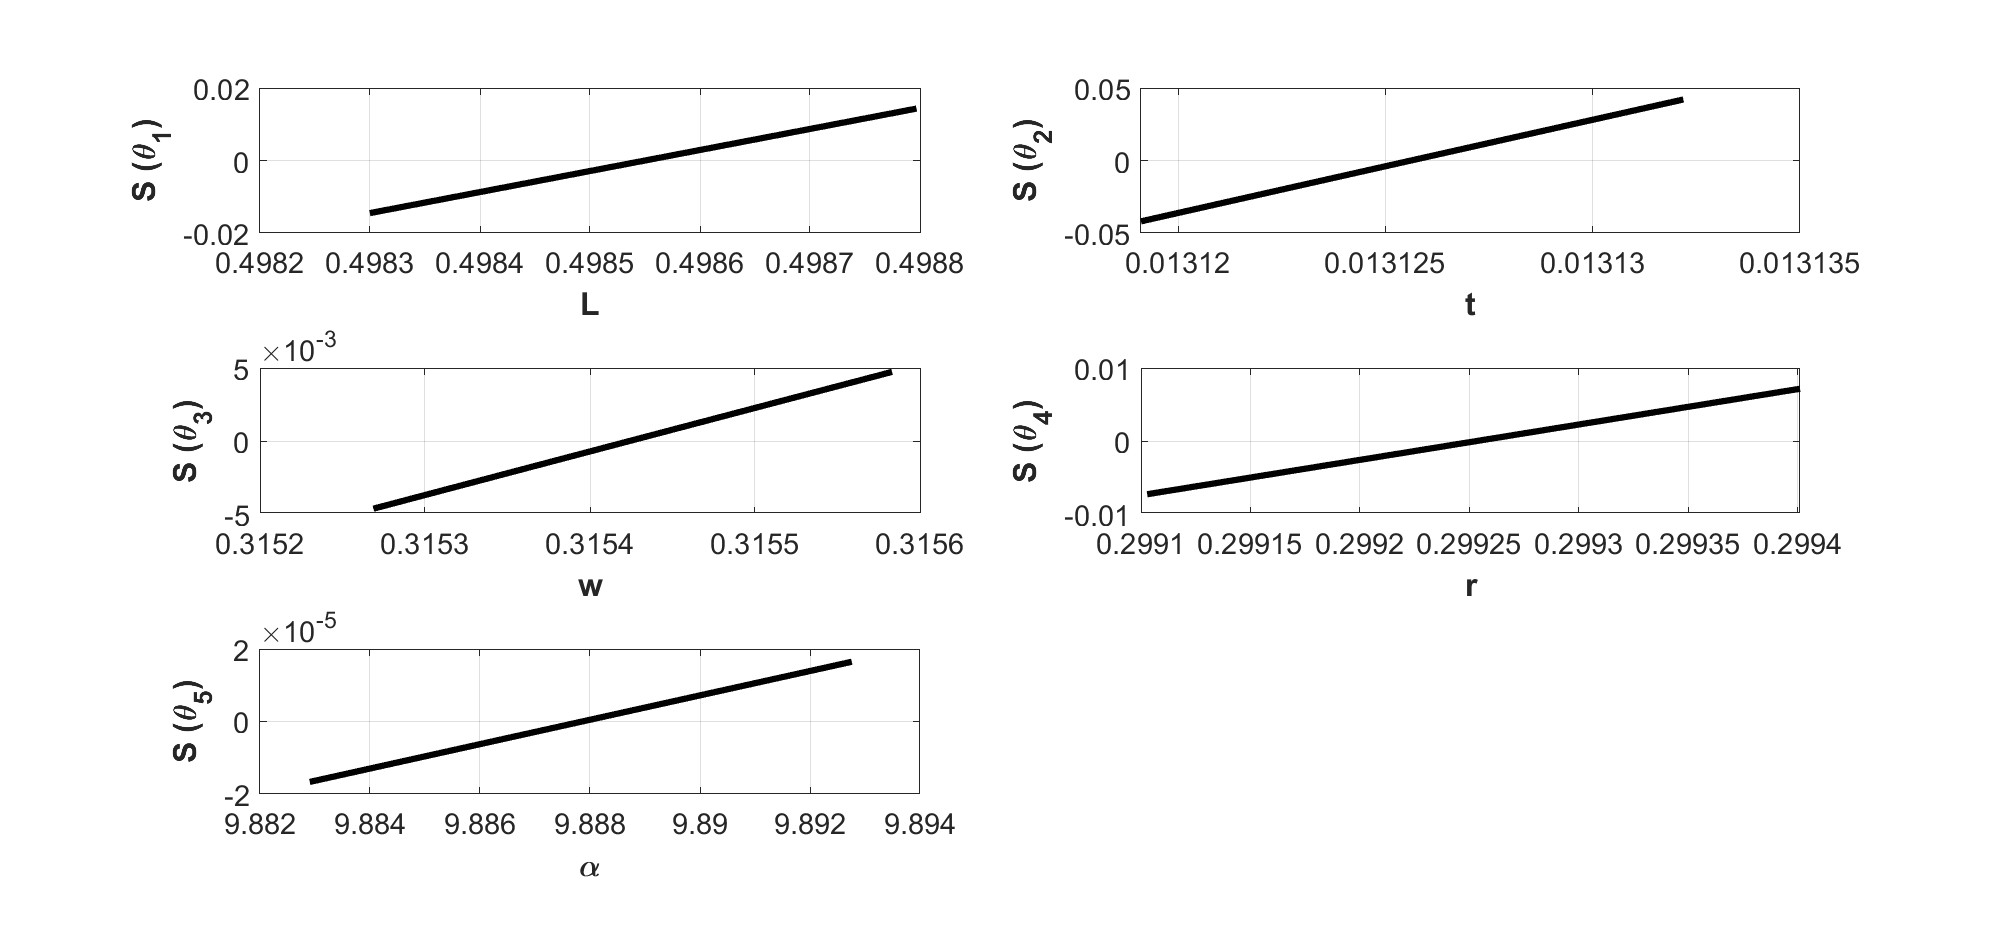
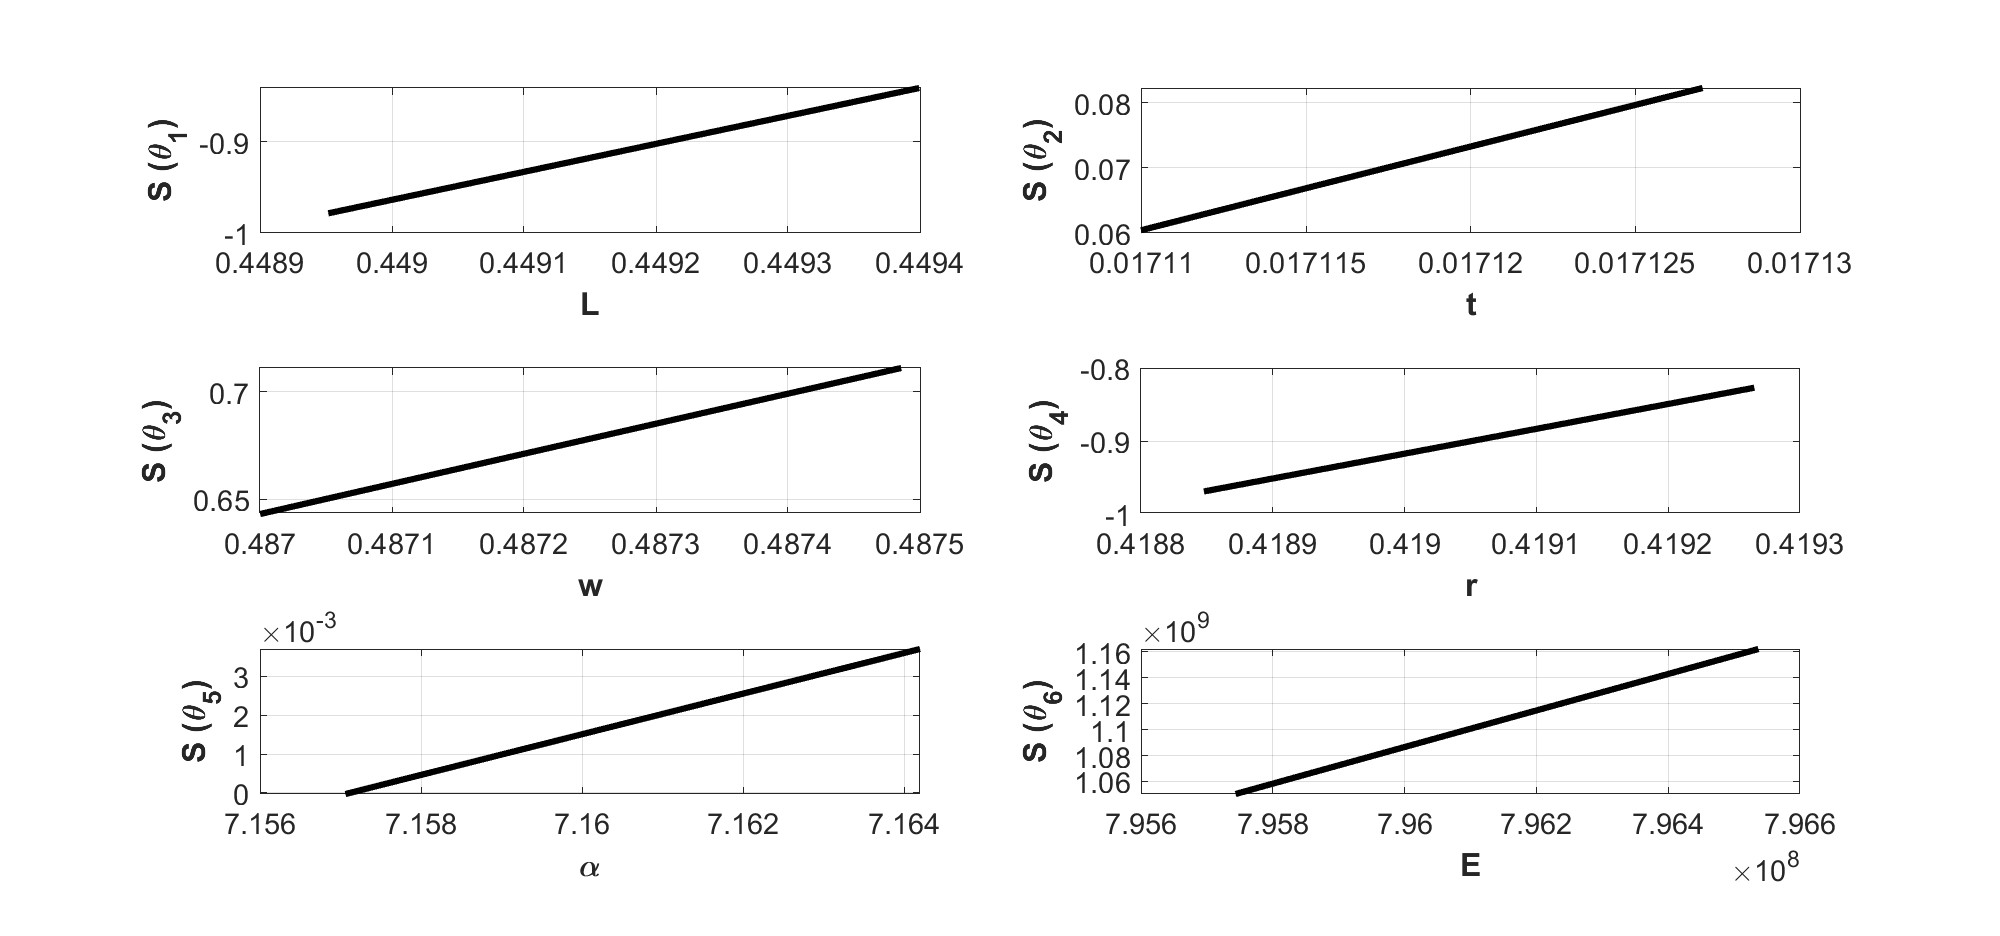
Sensitivity analysis fixed with some scaling; unsure if correct

diff --git a/Project/src/runSensitivity.m b/Project/src/runSensitivity.m
@@ -1,12 +1,11 @@
 function runSensitivity(mass, yIdeal, tIdeal, simTime, fixedPoint)
 
-    %% Begin Finite Diff
+    %** Begin Finite Diff
 
-    delta = .0005;
+    delta = .00005;
     numTestPoints = 300; % MUST BE EVEN
 
     % Each row is a param, each column is a test point
-    % ! Shoudl really be numTP - 1 b/c th_i duplicated
     Costs = zeros(numel(fixedPoint), numTestPoints -1);
     testPointMatrix = [];
 
@@ -17,8 +16,11 @@ function runSensitivity(mass, yIdeal, tIdeal, simTime, fixedPoint)
         min = th_i - delta*th_i;
         max = th_i + delta*th_i;
 
-        th_i_plus = linspace(th_i, max, numTestPoints/2);
-        th_i_minus = linspace(min, th_i, numTestPoints/2);
+        th_i_minus = linspace(min, th_i, numTestPoints/2 + 1);
+        tmp = th_i_minus(2) - th_i_minus(1);
+
+        th_i_plus = linspace(th_i, max, numTestPoints/2 +1);
+        
 
         testPoints = [th_i_minus, th_i_plus(2:end)];
         testPoints(testPoints <=0) = 1e-12;
@@ -34,18 +36,34 @@ function runSensitivity(mass, yIdeal, tIdeal, simTime, fixedPoint)
 
     end
 
-    S = zeros(numel(fixedPoint), numTestPoints -2);
-    for k = 1:(numTestPoints -2)
-        S(:, k) = (Costs(:, k+1) - Costs(:, k)) / delta;
-    end
+    %** Find sensitivities using the finit diff matrix
+    % Find scaling factor
+    y0 = ModelSimulationCost(fixedPoint, yIdeal);
+    scaler = fixedPoint/y0;
 
-    paramNames = {'L', 't', 'w', 'r', "\alpha"};
+    S = zeros(numel(fixedPoint), numTestPoints + 1);
+
+    for k = 1:numel(fixedPoint)
+        rMSE = (Costs(k,:) - y0) / y0;
+        S(k, :) = rMSE / delta;
+    end
+    % for k = 1:(numTestPoints)
+    %     S(:, k) = (Costs(:, k+1) - Costs(:, k)) / delta;
+    % end
+    % 
+    % for j = 1:numel(fixedPoint)
+    %     S(j, :) = S(j, :) * scaler(j);
+    % end
+
+
+    %** Plot sensitivities
+    paramNames = ['L', 't', 'w', 'r', "\alpha", 'E'];
     figure('WindowState','maximized')
     for a = 1:numel(fixedPoint)
         subplot(3, 2, a);
-        plot(testPointMatrix(a, 2:end), S(a, :), 'k', "LineWidth", 3)
+        plot((testPointMatrix(a, :) - fixedPoint(a))/fixedPoint(a), S(a, :), 'k', "LineWidth", 3)
         ylabel("S (\theta_" + string(a) + ")", 'fontweight', 'bold');
-        xlabel(paramNames(a), 'fontweight', 'bold');
+        xlabel('%\Delta' + paramNames(a), 'fontweight', 'bold');
         grid on
         ax = gca; % Get the current axes object
         ax.FontSize = 14;
@@ -56,7 +74,7 @@ function runSensitivity(mass, yIdeal, tIdeal, simTime, fixedPoint)
     %% Cost Function
 
     function Cost = ModelSimulationCost(fp, yIdeal)
-        s = newSpring(fp(1), fp(2), fp(3), fp(4), mass, fp(5));
+        s = newSpring(fp(1), fp(2), fp(3), fp(4), mass, fp(5), fp(6));
 
         y = s.getResponse(simTime);
 

diff --git a/Project/src/runOptimization.m b/Project/src/runOptimization.m
@@ -3,11 +3,11 @@ function os = runOptimization(mass, simTime, yIdeal, tIdeal)
     %% Setting up GA
 
     % lower and upper bounds for each variable
-    % L, t, w, r, (m), alpha
+    % L, t, w, r, (m), alpha, E
     
     
-    LB= [0, 0, 0, 0, 0] + 1e-3;
-    UB= [0.5, 0.5, 0.5, 0.5, 10];
+    LB= [0, 0, 0, 0, 0, 5e8] + 1e-3;
+    UB= [0.5, 0.5, 0.5, 0.5, 10, 1e10];
 
     nvars = numel(LB);
 
@@ -19,7 +19,7 @@ function os = runOptimization(mass, simTime, yIdeal, tIdeal)
     costFunctionHandle = @(freeParams) ModelSimulationCost(freeParams, yIdeal);
 
     function Cost = ModelSimulationCost(fp, yIdeal)
-        s = newSpring(fp(1), fp(2), fp(3), fp(4), mass, fp(5));
+        s = newSpring(fp(1), fp(2), fp(3), fp(4), mass, fp(5), fp(6));
 
         y = s.getResponse(simTime);
 
@@ -36,7 +36,7 @@ function os = runOptimization(mass, simTime, yIdeal, tIdeal)
     op = ga(costFunctionHandle, nvars, A, b, Aeq, beq, LB, UB, nonlcon, options);
 
     %% Create the optimal spring
-    os = newSpring(op(1), op(2), op(3), op(4), mass, op(5));
+    os = newSpring(op(1), op(2), op(3), op(4), mass, op(5), op(6));
 
     [yOptimized, t_out] = os.getResponse(simTime);
 

diff --git a/Project/newMain.m b/Project/newMain.m
@@ -15,7 +15,7 @@ idealKD = 2;
 
 [yIdeal, tIdeal] = getResponseIdeal(idealKS, idealKD, m, simTime);
 
-%% Testing runOptimization.m
+%% Optimize the Parameters
 
 % run the optimization
 optimizedSpring = runOptimization(m, simTime, yIdeal, tIdeal);
@@ -24,26 +24,29 @@ hold off;
 % animate the behavior of the ideal spring
 [y, t] = optimizedSpring.getResponse(simTime);
 
-figure;
-for i = 1:10:numel(y)
-    cla;
-    optimizedSpring.inverseKinematics(y(i));
-    optimizedSpring.fillCoords;
-    drawnow;
+% figure;
+% for i = 1:10:numel(y)
+%     cla;
+%     optimizedSpring.inverseKinematics(y(i));
+%     optimizedSpring.fillCoords;
+%     drawnow;
+% 
+% end
 
-end
-
-%% Testing runSensitivity.m
+%% Determine the Sensitivity of the Parameters
 % L, t, w, r, (m), alpha
 L = optimizedSpring.L_;
 t = optimizedSpring.t_;
 w = optimizedSpring.w_;
 r = optimizedSpring.r_;
 alpha = optimizedSpring.alpha_;
+E = optimizedSpring.E_;
 
 fixedPoint(1) = L;
 fixedPoint(2) = t;
 fixedPoint(3) = w;
 fixedPoint(4) = r;
 fixedPoint(5) = alpha;
+fixedPoint(6) = E;
+
 runSensitivity(m, yIdeal, tIdeal, simTime, fixedPoint)

diff --git a/Project/src/newSpring.m b/Project/src/newSpring.m
@@ -22,7 +22,7 @@ classdef newSpring < handle
     end
 
     methods
-        function obj = newSpring(L, t, w, r, m, alpha)
+        function obj = newSpring(L, t, w, r, m, alpha, E)
             %UNTITLED Construct an instance of this class
             %   Detailed explanation goes here
             obj.L_ = L;
@@ -31,6 +31,7 @@ classdef newSpring < handle
             obj.r_ = r;
             obj.m_ = m;
             obj.alpha_ = alpha;
+            obj.E_ = E;
             obj.makeComplianceMatrix();
         end
 
